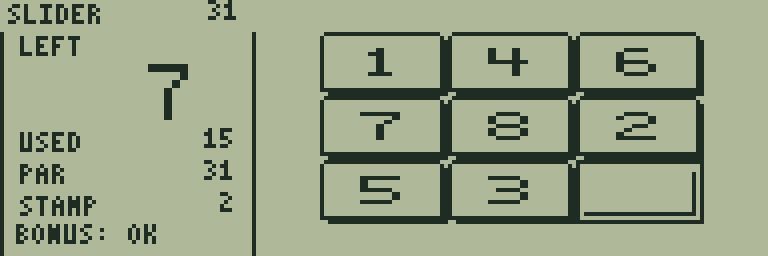
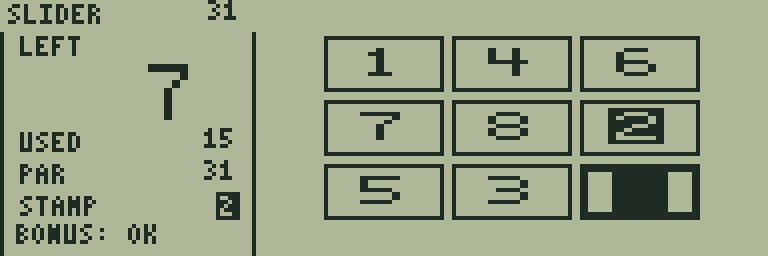
Improve SLIDE NINE visual clarity

Changed region(s): [[0.4062, 0.125, 0.9375, 0.875], [0.2812, 0.75, 0.3125, 0.875]]

diff --git a/games/slide-nine/generate.py b/games/slide-nine/generate.py
@@ -7,15 +7,48 @@ from grid_assets import assets,Bitmap,asm_bytes
 root=Path(__file__).parent
 from puzzle_assets import campaign, level_records, challenge_data
 levels=campaign(root)
-from depth_art import raised
 from digit_art import draw_digits
+from visual_art import tiny
 sprites=[]
 for n in range(9):
     b=Bitmap(32,16)
+    # Flat, separated frames distinguish the stationary destination from the
+    # numbered tiles. The blank is a recessed central well, without a cursor.
+    b.rect(1,1,30,14)
     if n:
-        raised(b);draw_digits(b,str(n),10,4,'slide-nine',2,1)
+        draw_digits(b,str(n),10,4,'slide-nine',2,1)
     else:
-        b.rect(1,1,30,14,1,True);b.line(2,13,29,13,0);b.line(29,3,29,13,0)
+        b.rect(9,3,14,10,1,True)
+    sprites.append(b)
+# Pack two inverse number faces per sprite. Only the middle four subtiles are
+# used, keeping all ordinary, target and number artwork within 128 tile IDs.
+token_tiles=[]
+for pair in range(4):
+    b=Bitmap(32,16)
+    for side in range(2):
+        n=pair*2+side+1; face=Bitmap(16,16)
+        face.line(0,1,15,1);face.line(0,14,15,14)
+        face.rect(0,3,14,9,1,True)
+        digit=Bitmap(32,16);draw_digits(digit,str(n),10,4,'slide-nine',2,1)
+        for y in range(16):
+            for x in range(16):
+                if digit.p[y][x+8]:face.dot(x,y,0)
+                b.dot(side*16+x,y,face.p[y][x])
+        first=73+pair*8+side*2
+        token_tiles.extend([0,first,first+1,0,0,first+4,first+5,0])
+    sprites.append(b)
+for complete in (False,True):
+    b=Bitmap(32,16)
+    for y in range(1,15):
+        for x in range(1,31):
+            if x in (1,2,29,30) or y in (1,2,13,14):
+                b.dot(x,y,int(complete or (x+y)%2==0))
     sprites.append(b)
 data=level_records([s['initial']['board'] for s in levels])+asm_bytes('slide_tokens',[s['bonus_tile'] for s in levels])+challenge_data(root,levels,3,4,2,3)
+data+=asm_bytes('slide_token_tiles',token_tiles)
+data+=asm_bytes('slide_frame_origins',[v for row in range(3) for col in range(3) for v in (88+col*32,1+row*2)])
+stamp=[]
+for n in range(1,9):
+    b=Bitmap(6,8);b.rect(0,0,6,7,1,True);tiny(b,str(n),1,1,0);stamp+=b.bytes()
+data+=asm_bytes('slide_stamp_faces',stamp)
 assets(root,'SLIDE NINE','slide-nine',3,3,4,2,sprites,40,data,stat='LEFT',action='MOVE')

diff --git a/games/slide-nine/README.md b/games/slide-nine/README.md
@@ -10,7 +10,7 @@
 
 ## 遊び方
 
-方向キーで空きマスを動かし、上段1・2・3、中段4・5・6、下段7・8・空きの順に並べます。追加目標は、HUDの STAMP に表示された数字のタイルを、印のマスへ一度運ぶことです。最終配置とは別の位置へ立ち寄る必要があります。
+方向キーで空きマスを動かし、上段1・2・3、中段4・5・6、下段7・8・空きの順に並べます。追加目標は、STAMPに示す数字のタイルを、模様付きの枠のマスへ一度運ぶことです。対象の数字は盤面とSTAMPの両方で白抜き表示になります。模様付きの枠は移動先に固定され、達成すると太い枠と BONUS: OK に変わります。最終配置とは別の位置へ立ち寄る必要があります。
 
 RETURNメニューから1手戻しと再挑戦ができます。
 
